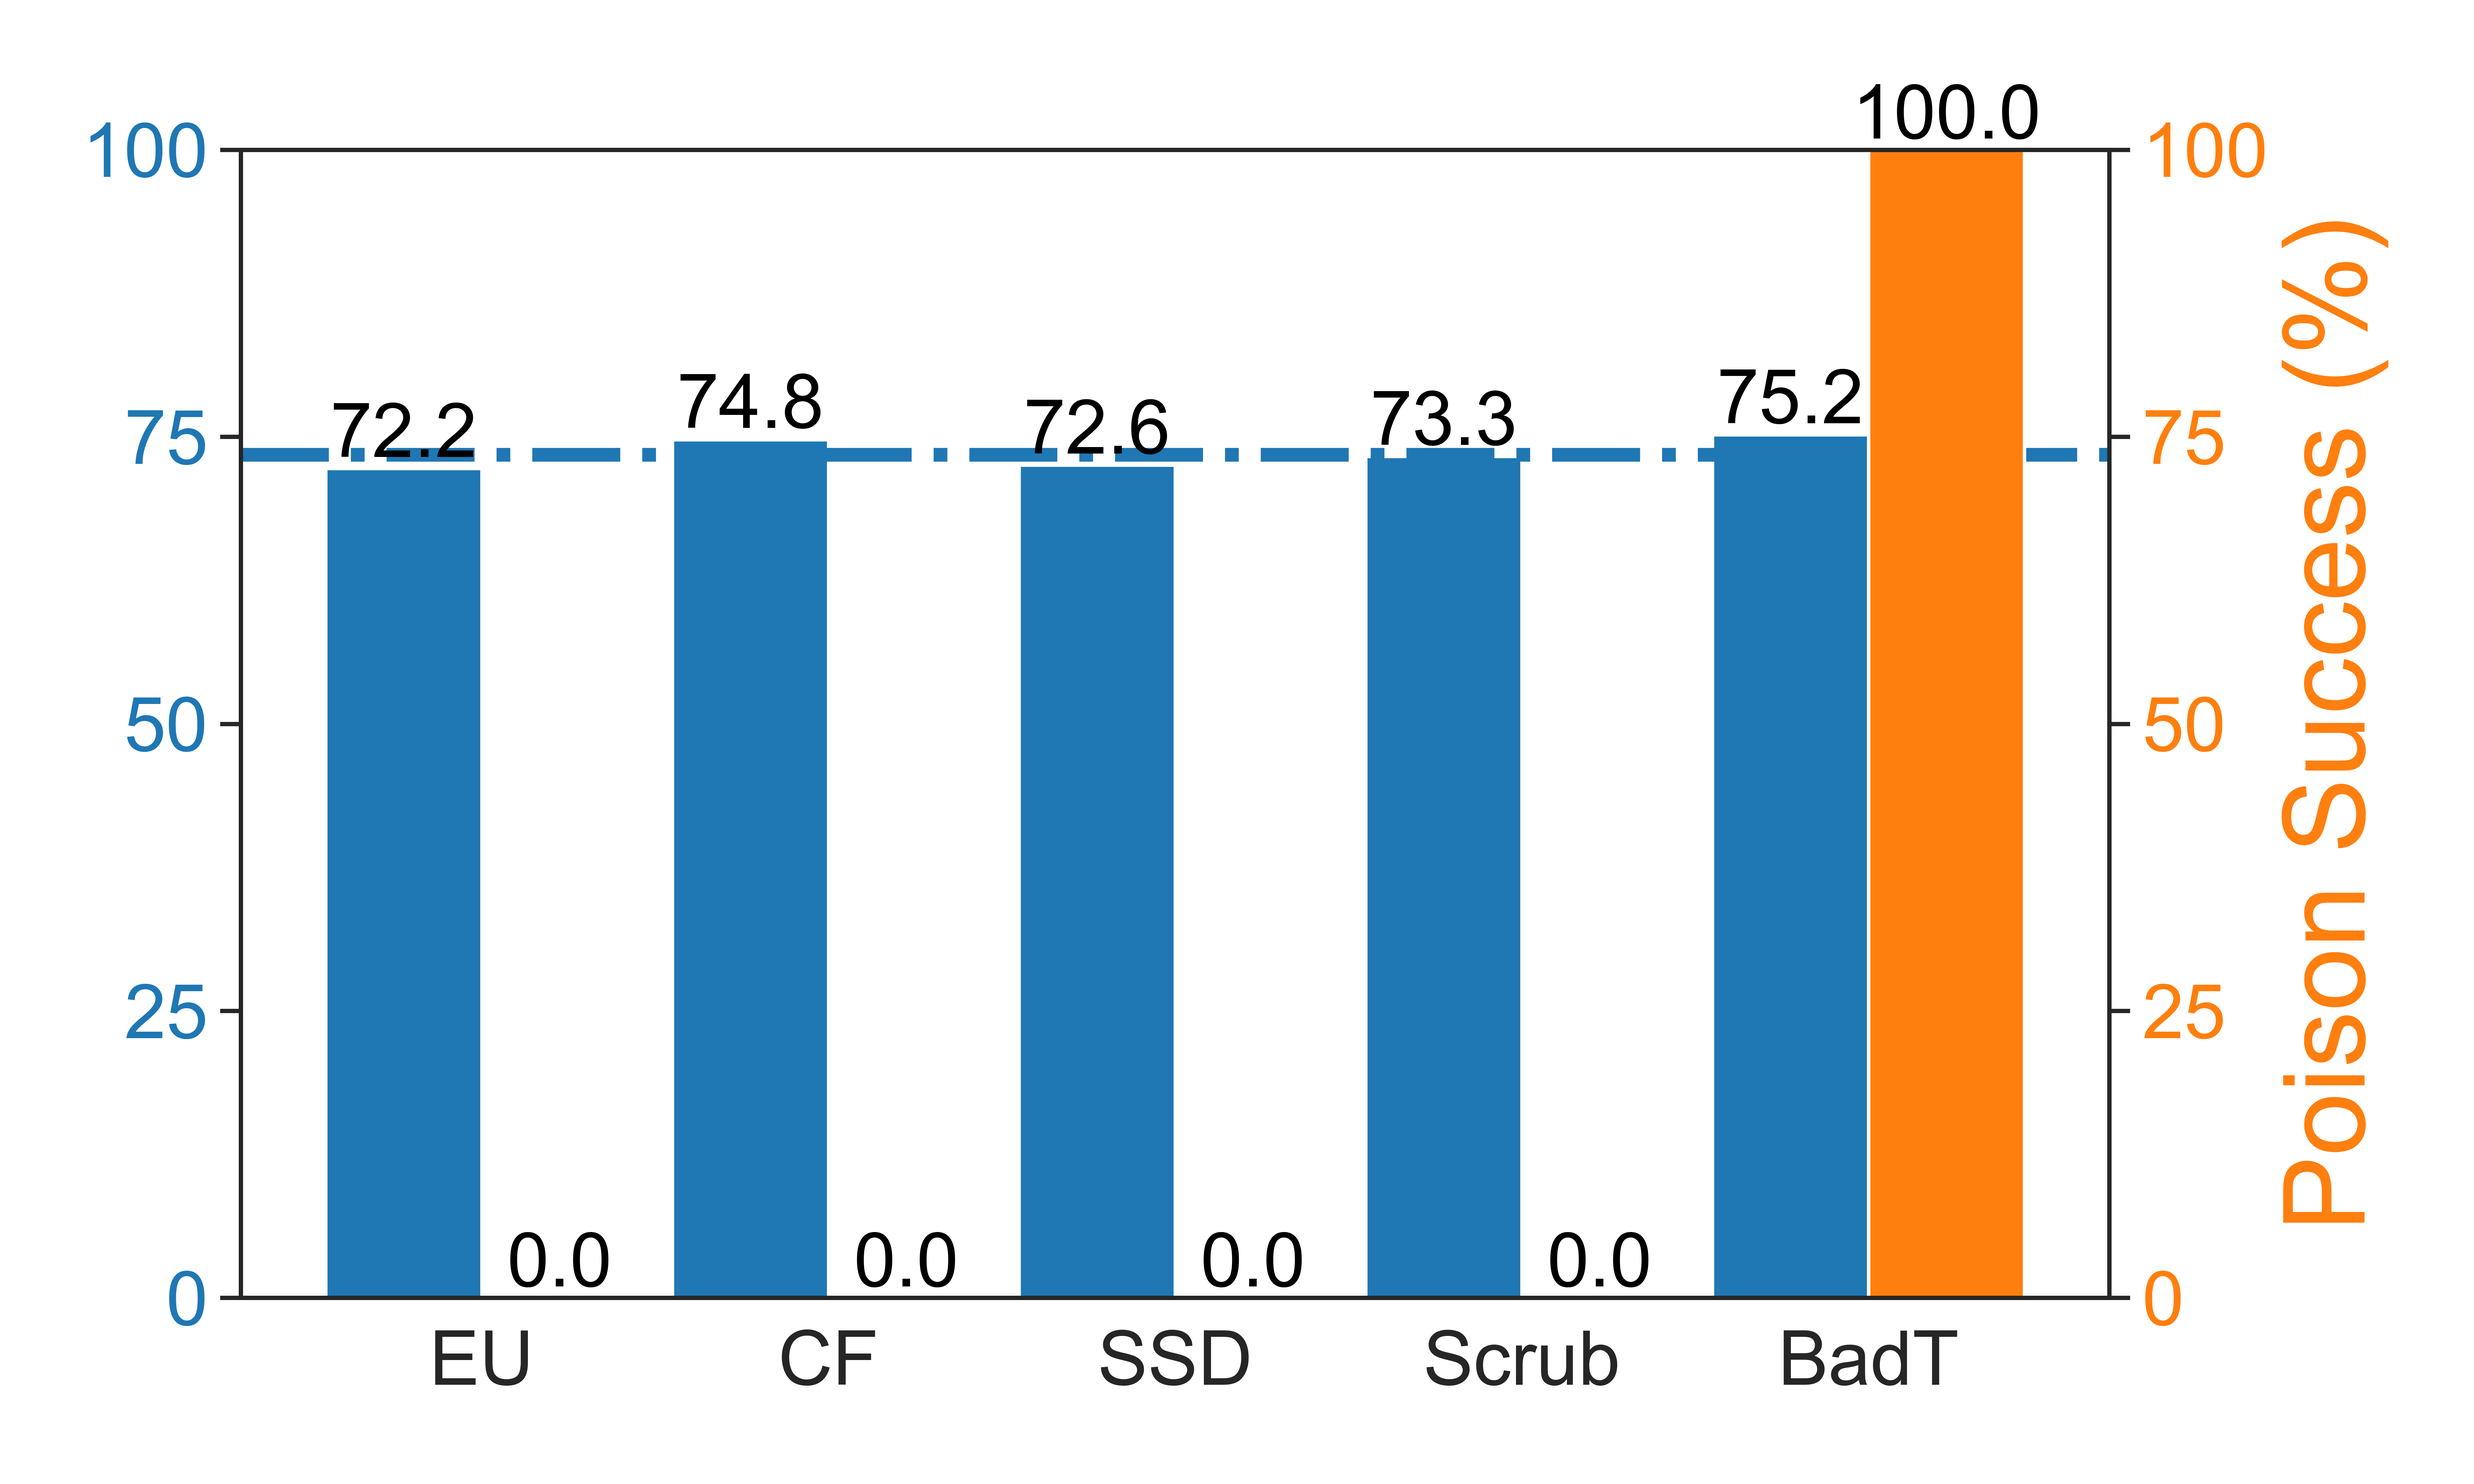
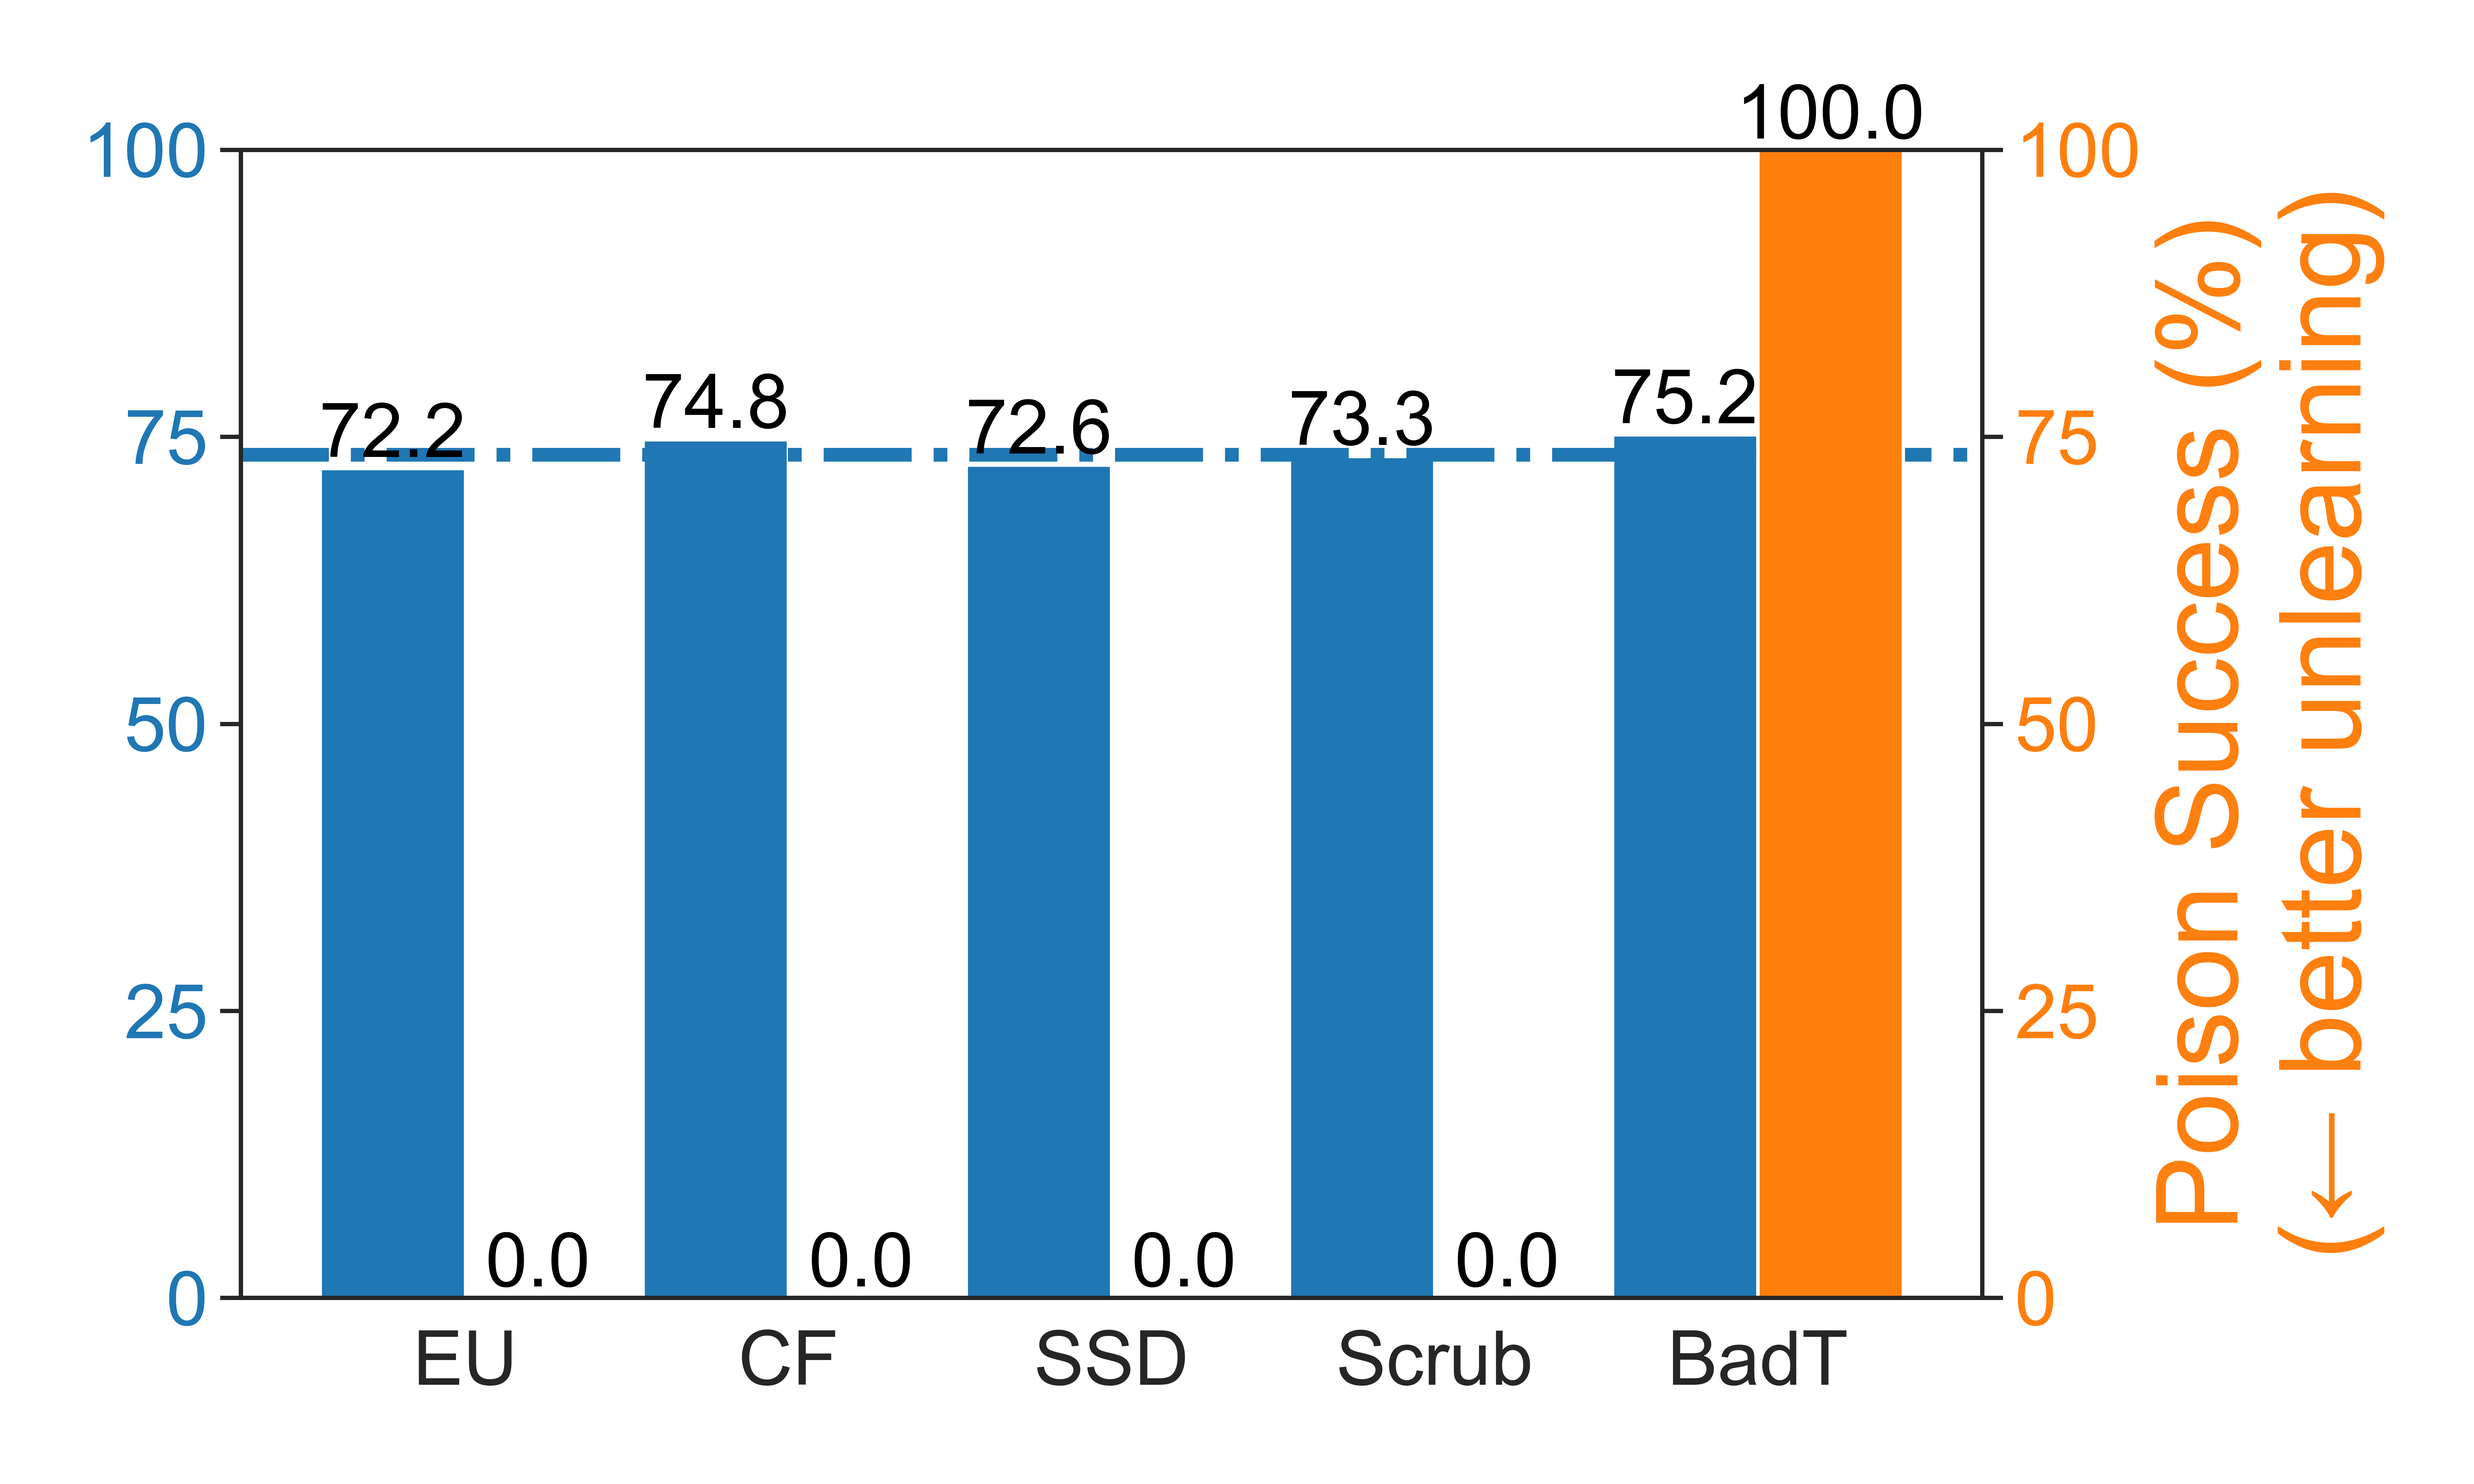
update fig4

Changed region(s): [[0.1562, 0.0625, 0.9688, 0.9375], [0.125, 0.25, 0.1875, 0.3125]]

diff --git a/get_new_plots_newstyle.py b/get_new_plots_newstyle.py
@@ -411,14 +411,14 @@ plt.rcParams.update({'font.size': 22})  # Adjust '14' to your desired font size
 # plt.savefig("cifar100_wb.png", dpi=800)
 
 ## --- (wb imagenette) ---
-save_name = "imagenette_wb.png"
-# Data from the user
-methods = ["EU", "CF", "SSD", "Scrub", "BadT"]
-poison_success = [0.00, 0.00, 0.00, 0.00, 100.00]  # Poison Success (%) values
-test_accuracy = [71.82, 78.68, 74.65, 40.36, 72.41]  # Test Accuracy (%) values
-avg_final_acc = 81.14
+# save_name = "imagenette_wb.png"
+# # Data from the user
+# methods = ["EU", "CF", "SSD", "Scrub", "BadT"]
+# poison_success = [0.00, 0.00, 0.00, 0.00, 100.00]  # Poison Success (%) values
+# test_accuracy = [71.82, 78.68, 74.65, 40.36, 72.41]  # Test Accuracy (%) values
+# avg_final_acc = 81.14
 
-""" badnet
+# badnet
 # Set up figure and axis for dual-axis bar plot
 fig, ax1 = plt.subplots(figsize=(10, 6))
 
@@ -430,7 +430,7 @@ index = np.arange(len(methods))
 bars1 = ax1.bar(index, test_accuracy, bar_width, color=bluecolor, label='Test Accuracy (%)')
 # bars1 = ax1.bar(index, test_accuracy, bar_width, color=bluecolor)
 # ax1.set_xlabel("Method", fontsize=33)
-ax1.set_ylabel("Test Accuracy (%)", color=bluecolor, fontsize=33)
+ax1.set_ylabel("Test Accuracy (%)\n(more accurate →)", color=bluecolor, fontsize=33)
 ax1.locator_params(axis='y', tight=True, nbins=4)
 ax1.tick_params(axis='y', labelcolor=bluecolor, labelsize=22)
 ax1.tick_params(axis='x', labelsize=22)
@@ -464,8 +464,9 @@ plt.tight_layout()
 
 # Show the plot
 plt.savefig(save_name, dpi=800)
+
 """
-""" frequency
+# frequency
 # Set up figure and axis for dual-axis bar plot
 fig, ax1 = plt.subplots(figsize=(10, 6))
 
@@ -512,7 +513,7 @@ plt.tight_layout()
 # Show the plot
 plt.savefig(save_name, dpi=800)
 """
-
+""" wichesbrew
 # Set up figure and axis for dual-axis bar plot
 fig, ax1 = plt.subplots(figsize=(10, 6))
 
@@ -539,7 +540,7 @@ for bar in bars1:
 ax2 = ax1.twinx()
 bars2 = ax2.bar(index + bar_width, poison_success, bar_width, color=orangecolor, label='Poison Success (%)')
 # bars2 = ax2.bar(index + bar_width, poison_success, bar_width, color=orangecolor)
-ax2.set_ylabel("Poison Success (%)", color=orangecolor, fontsize=33)
+ax2.set_ylabel("Poison Success (%)\n(← better unlearning)", color=orangecolor, fontsize=33)
 ax2.locator_params(axis='y', tight=True, nbins=4)
 ax2.tick_params(axis='y', labelcolor=orangecolor, labelsize=22)
 ax2.set_ylim(0, 100)  # Set limit to 100 for better comparison
@@ -558,3 +559,4 @@ plt.tight_layout()
 
 # Show the plot
 plt.savefig(save_name, dpi=800)
+"""
